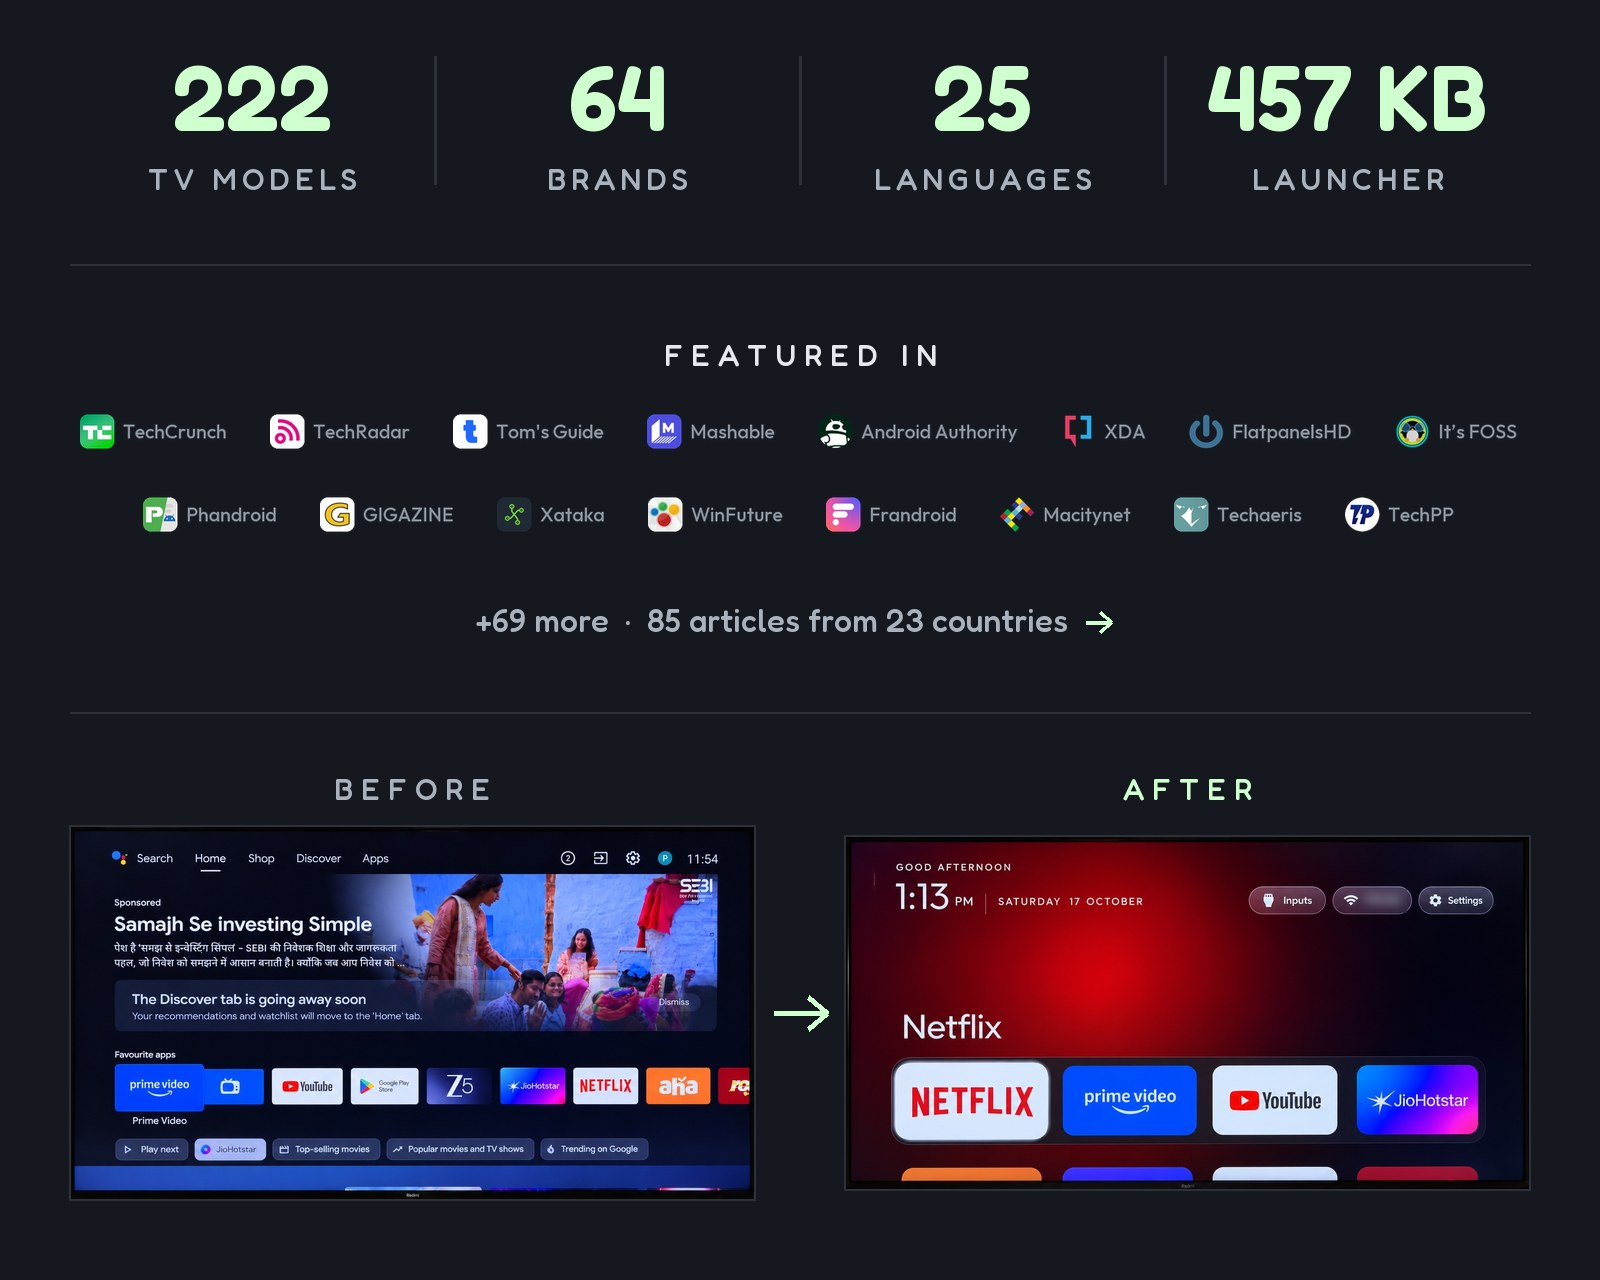
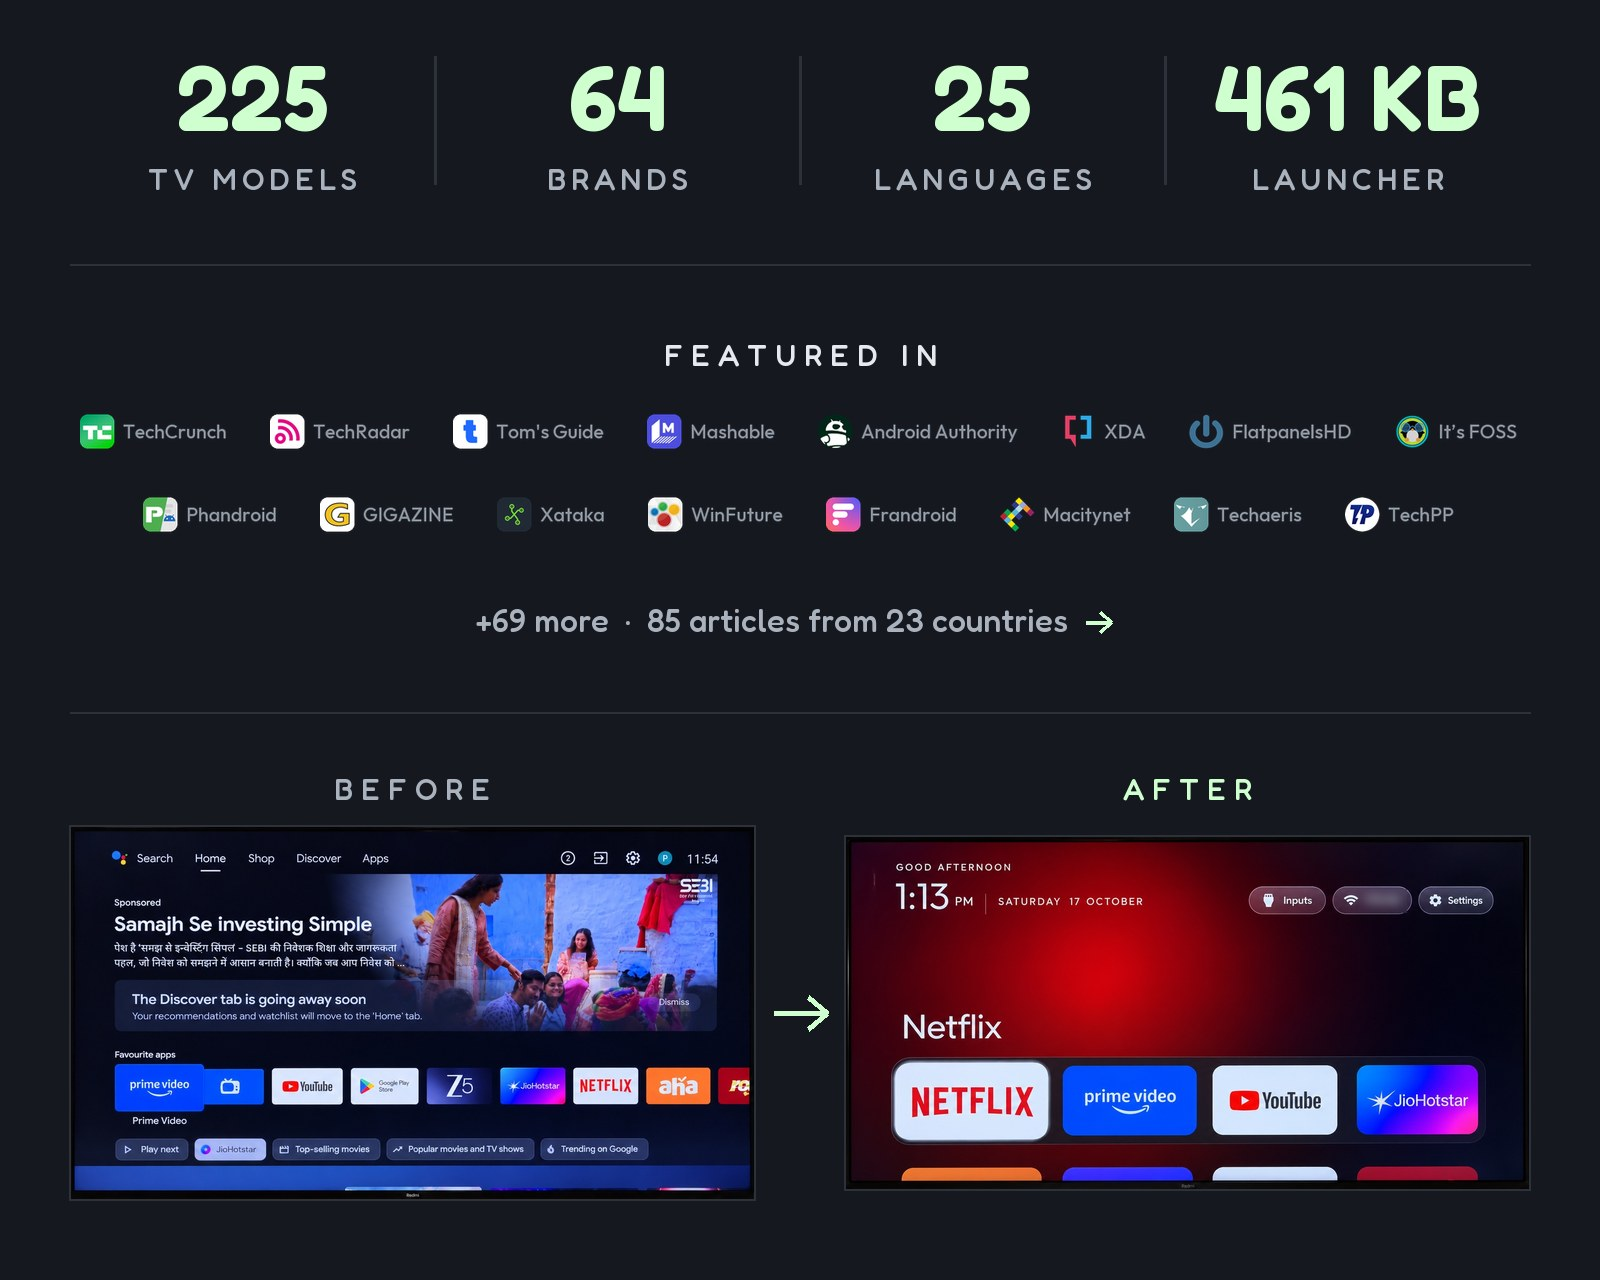
README: counts and card after Round O's second batch (225 TV models, 461 KB launcher, 85 articles from 23 countries)

Changed region(s): [[0.75, 0.0312, 0.9375, 0.125], [0.0938, 0.0625, 0.2188, 0.0938]]

diff --git a/tools/readme_stats.py b/tools/readme_stats.py
@@ -5,7 +5,7 @@ and rebuild the card with tools/readme_card.py. Fredoka is the variable TTF from
 import sys
 from PIL import Image, ImageDraw, ImageFont
 FONT, OUT = sys.argv[1], sys.argv[2]
-STATS = [("222", "TV MODELS"), ("64", "BRANDS"), ("25", "LANGUAGES"), ("457 KB", "LAUNCHER")]
+STATS = [("225", "TV MODELS"), ("64", "BRANDS"), ("25", "LANGUAGES"), ("461 KB", "LAUNCHER")]
 W, H = 1600, 240
 img = Image.new("RGB", (W, H), "#15181e"); d = ImageDraw.Draw(img)
 def f(size, wt):

diff --git a/README.md b/README.md
@@ -17,7 +17,7 @@
 </p>
 
 <p align="center">
-  <a href="docs/PRESS.md"><img src="docs/card.jpg" alt="222 TV models · 64 brands · 25 languages · 457 KB launcher. Featured in TechCrunch, TechRadar, Tom's Guide, Mashable, Android Authority, XDA, FlatpanelsHD, It's FOSS, Phandroid, GIGAZINE, Xataka, WinFuture, Frandroid, Macitynet, Techaeris, TechPP and 69 more: 85 articles from 23 countries. Before: stock Google TV home with a sponsored ad. After: the Clean Your TV launcher." width="800"></a>
+  <a href="docs/PRESS.md"><img src="docs/card.jpg" alt="225 TV models · 64 brands · 25 languages · 461 KB launcher. Featured in TechCrunch, TechRadar, Tom's Guide, Mashable, Android Authority, XDA, FlatpanelsHD, It's FOSS, Phandroid, GIGAZINE, Xataka, WinFuture, Frandroid, Macitynet, Techaeris, TechPP and 69 more: 85 articles from 23 countries. Before: stock Google TV home with a sponsored ad. After: the Clean Your TV launcher." width="800"></a>
 </p>
 
 **The viral tweet:** [x.com/gathint/status/2111379569030939102](https://x.com/gathint/status/2111379569030939102)
@@ -99,7 +99,7 @@ Anything running **Android TV** or **Google TV**.
 
 Tested lists from contributors, one folder per model in [`examples/`](examples/):
 
-**TCL** 51 · **Xiaomi** 28 · **Sony** 25 · **Philips** 12 · **Hisense** 9 · **Skyworth** 9 · **Amazon Fire TV** 7 ·
+**TCL** 54 · **Xiaomi** 27 · **Sony** 26 · **Philips** 12 · **Hisense** 9 · **Skyworth** 9 · **Amazon Fire TV** 7 ·
 **Thomson** 4 · **BenQ** 3 · **Google** 3 · **Panasonic** 3 · **CHiQ** 2 · **FFalcon** 2 · **Haier** 2 · **Hitachi** 2 ·
 **Kalley** 2 · **Nokia** 2 · **NVIDIA Shield** 2 · **OnePlus** 2 · **onn** 2 · **Redmi** 2 · **Toshiba** 2 · **Vu** 2 ·
 AiPro2K · AIWA · Artel · Caxium · Cecotec · Challenger · Compac · Dialog · EKO · Freebox · Insignia Fire TV · JVC ·
@@ -371,7 +371,7 @@ tools/theme.sh themes/aurora                                 # push a theme; --r
 | [`tools/privacy.py`](tools/privacy.py) | Audits the TV for voice, ACR and telemetry candidates and prints the evidence for each; `--write` turns the findings into a list `disable.sh` and `restore.sh` already understand. |
 | [`tools/theme.sh`](tools/theme.sh) | Push a folder from [`themes/`](themes/) to the launcher and restart Home. |
 | [`tools/race_calendar.py`](tools/race_calendar.py) | Writes this season's F1 calendar into a theme for race-weekend mode, from the free Jolpica API. |
-| [`launcher/build-and-install.sh`](launcher/build-and-install.sh) | Builds a shrunk release (about 457 KB), installs it, switches Home, and rolls back if Home does not land on it. |
+| [`launcher/build-and-install.sh`](launcher/build-and-install.sh) | Builds a shrunk release (about 461 KB), installs it, switches Home, and rolls back if Home does not land on it. |
 
 The scripts never leave the TV without a Home app: they only disable a stock launcher they recognise,
 and skip the Home app in a list until another launcher answers HOME. Details below.
@@ -441,7 +441,7 @@ apps), which is why the report names that loss per package instead of calling it
 
 ## The launcher
 
-A small native home screen for Android TV: **about 457 KB**, plain Java, built for TVs with 1 GB of RAM.
+A small native home screen for Android TV: **about 461 KB**, plain Java, built for TVs with 1 GB of RAM.
 No blur, no video, no network permission, no background services.
 
 The **TV** needs Android 8.0 (API 26) or newer: `minSdk` is a compile-time floor in

diff --git a/.github/maintainer/MAINTAINER.md b/.github/maintainer/MAINTAINER.md
@@ -1,7 +1,7 @@
 # How CleanYourTV PRs are reviewed
 
 CleanYourTV (Gathin23/cleanyourtv) is a prompt plus tools that debloat Android TV / Google TV / Fire TV over
-ADB and a tiny native launcher (`launcher/`, plain Java, ~457 KB, for 1 GB TVs). Contributors mostly add
+ADB and a tiny native launcher (`launcher/`, plain Java, ~461 KB, for 1 GB TVs). Contributors mostly add
 tested TV lists under `examples/<tv>/`, translations, docs, small launcher options, themes, add-ons and tools.
 
 ## The policy: a small core plus a well-indexed hub
